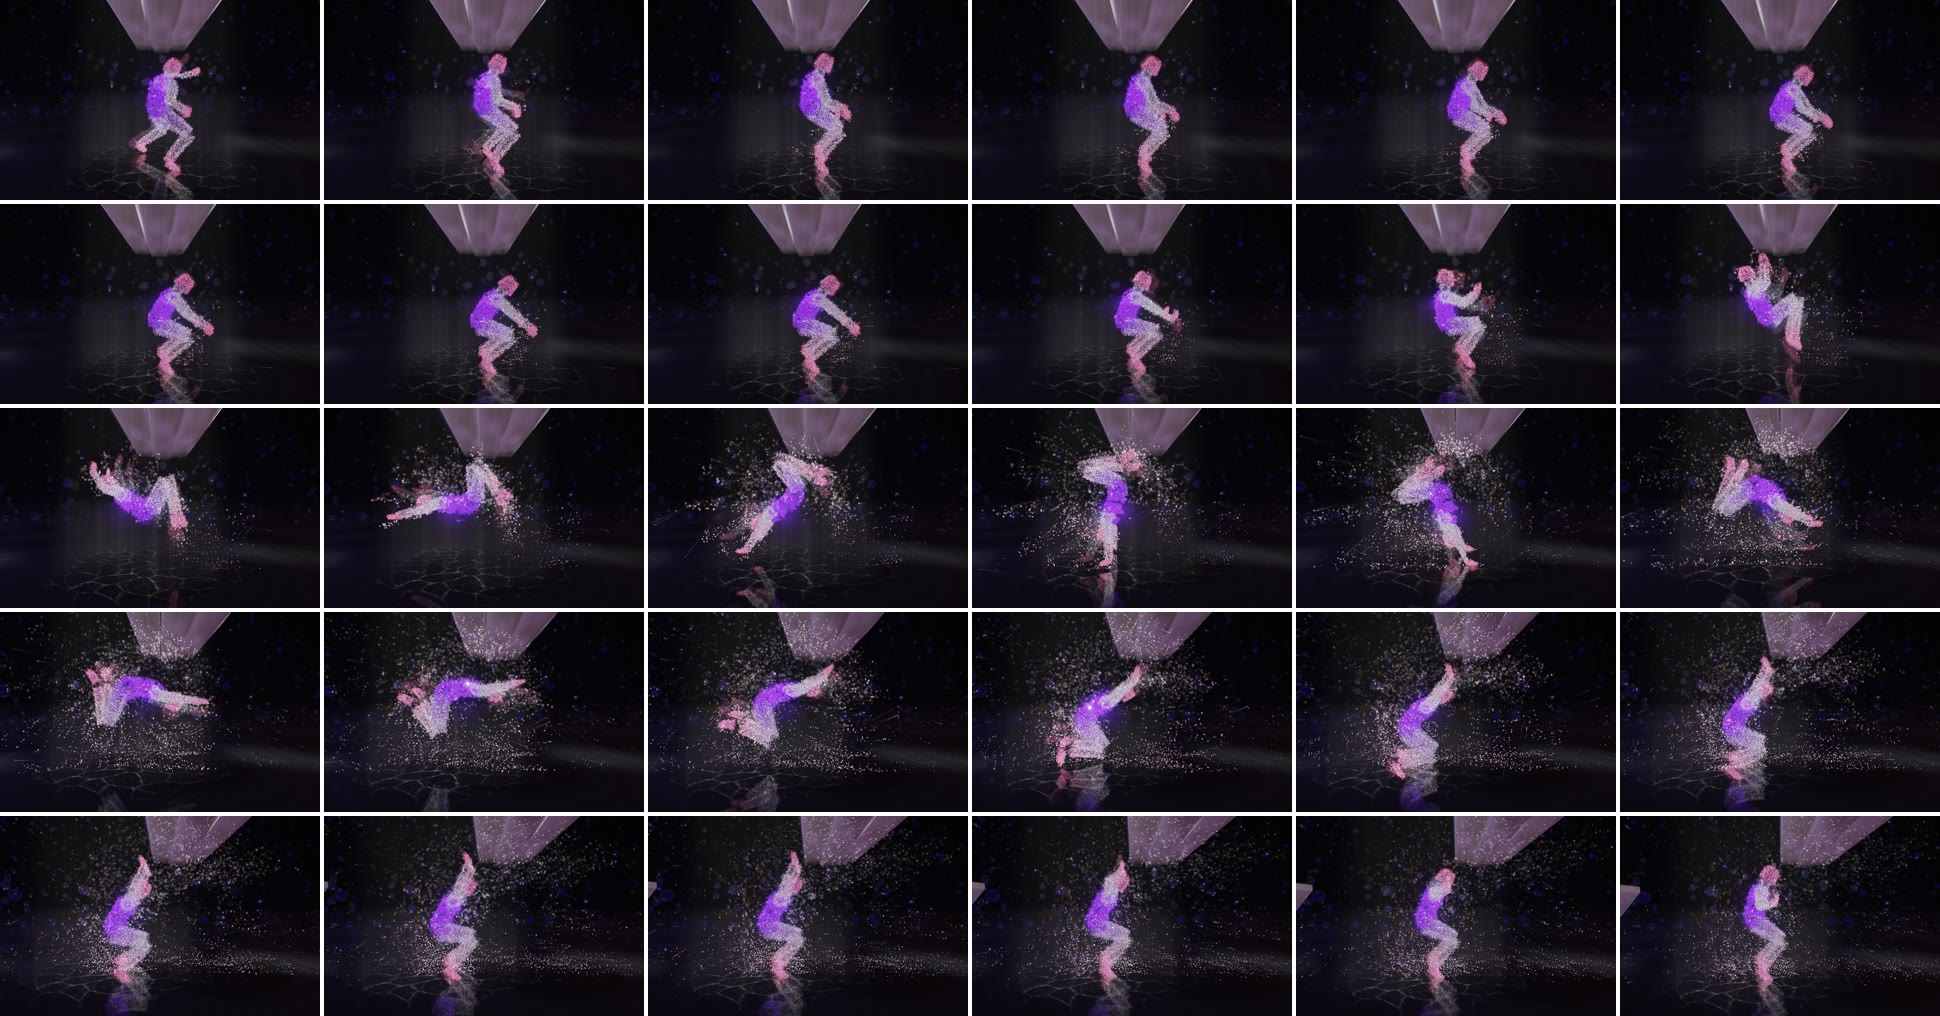
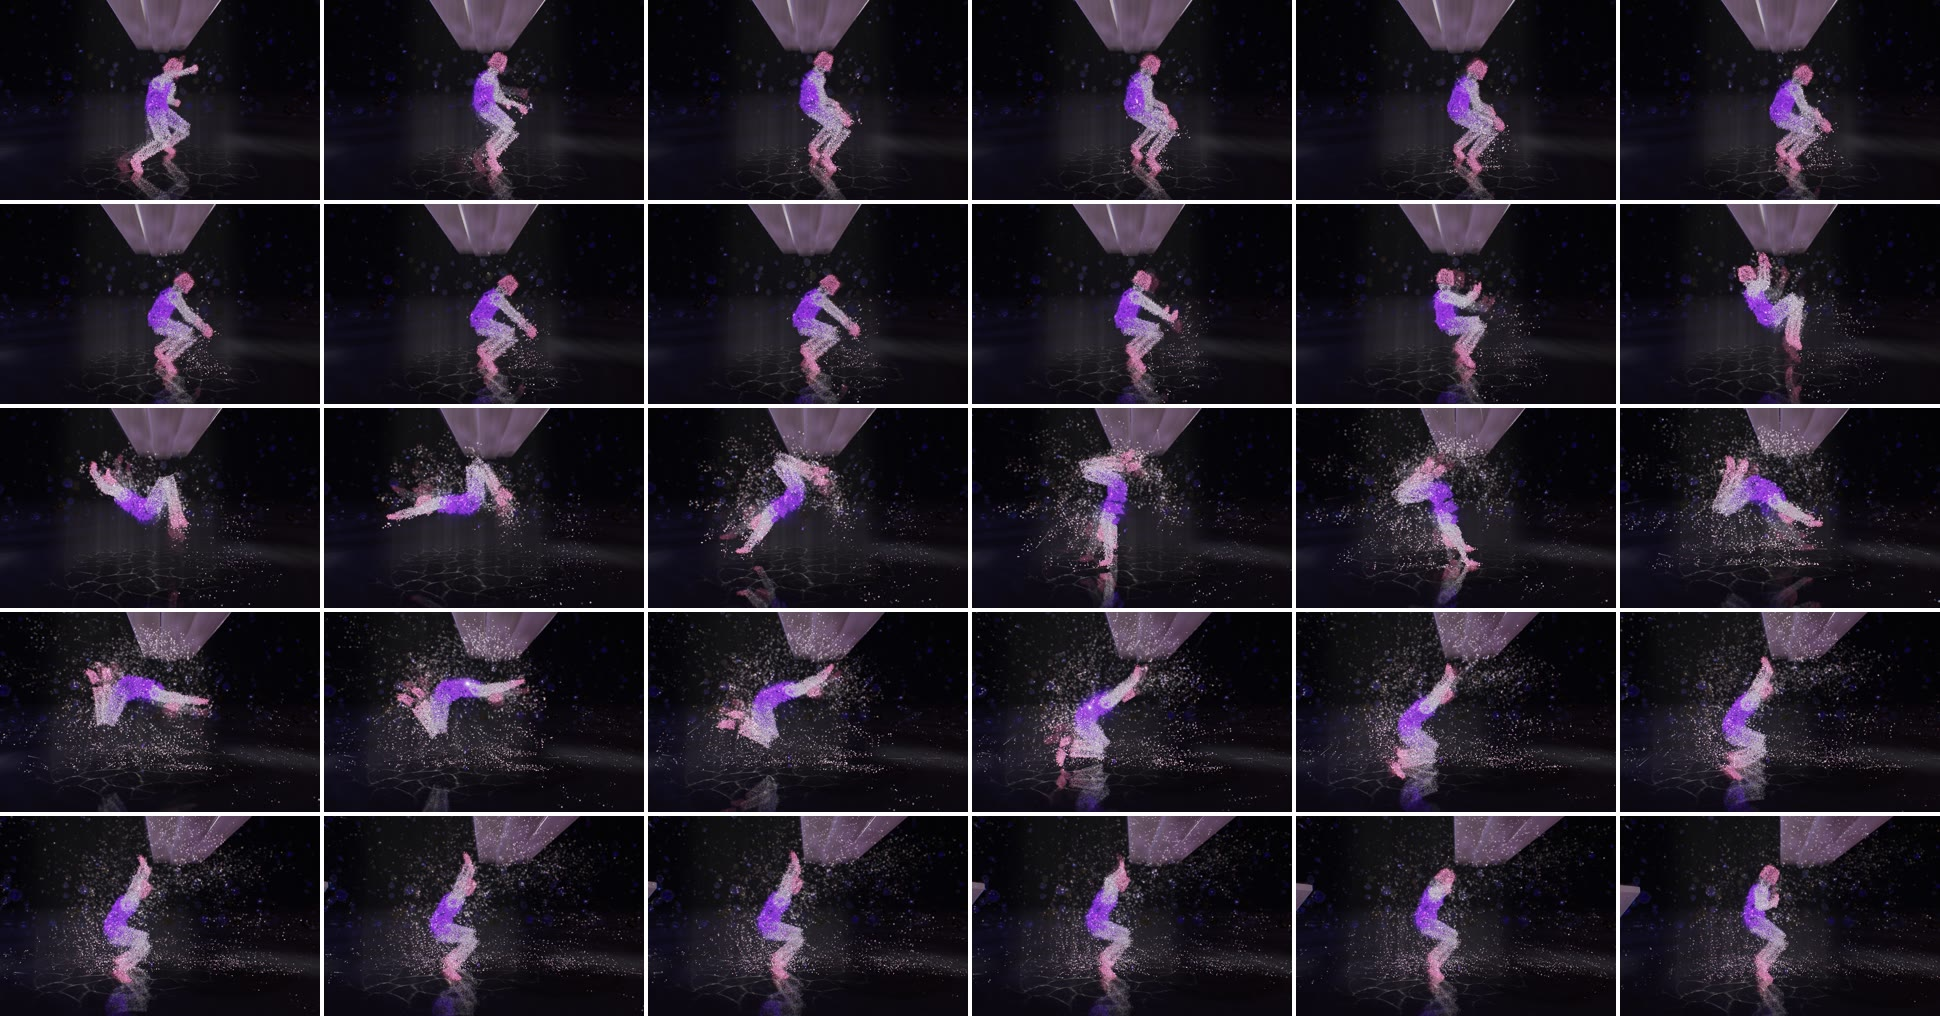
Gems: tide gets a celestite heart; after stills

diff --git a/src/matter/core/presets.ts b/src/matter/core/presets.ts
@@ -10,7 +10,7 @@
 // and single-<mineral> / monolith-<mineral> for each mineral a player can choose (amethyst, citrine, emerald,
 // obsidian, opal, quartz, rose, iron). The mixed bodies, a heart of one matter in a body of another: ember (a gem
 // heart and head inside fire limbs), gemwater (inside water), gemice (inside ice), geodeheart (the great geode torso
-// inside fire limbs) and geodeheart-water, tide (water with ice hands and feet), and all (a geode heart and a gem head,
+// inside fire limbs) and geodeheart-water, tide (water with ice hands and feet round a celestite heart), and all (a geode heart and a gem head,
 // fire arms, water legs, ice hands and feet). A `+` or a space in a URL is not needed: every name is one word.
 import type { BodyPart, Loadout } from './kind';
 
@@ -44,8 +44,8 @@ export const PRESETS: Record<string, (suite: string) => Loadout> = {
   // a gem heart (torso and head) inside a body of water, and inside ice
   gemwater: (suite) => ({ layers: [gem(0.3, { suite, heart: 1 }, CORE), { kind: 'water', share: 0.7 }] }),
   gemice: (suite) => ({ layers: [gem(0.3, { suite, heart: 1 }, CORE), { kind: 'ice', share: 0.7, parts: LIMBS }] }),
-  // water, with ice on the hands and feet
-  tide: () => ({ layers: [{ kind: 'water', share: 0.75, parts: ['torso', 'head', 'arms', 'legs'] }, { kind: 'ice', share: 0.25, parts: ['hands', 'feet'] }] }),
+  // water, with ice on the hands and feet, and a small celestite heart in the water
+  tide: () => ({ layers: [{ kind: 'water', share: 0.7, parts: ['torso', 'head', 'arms', 'legs'] }, { kind: 'ice', share: 0.22, parts: ['hands', 'feet'] }, gem(0.08, { suite: 'Sky', heart: 1.2 }, ['torso'])] }),
   // the great amethyst geode over the torso (a large crystal, its hollow lined with points and lit by the heart),
   // inside limbs of flame (or of water)
   geodeheart: () => ({ layers: [gem(0.16, { suite: 'Geode', crystals: 'torso', heart: 1.2 }, ['torso']), { kind: 'fire', share: 0.84, parts: ['head', ...LIMBS] }] }),
